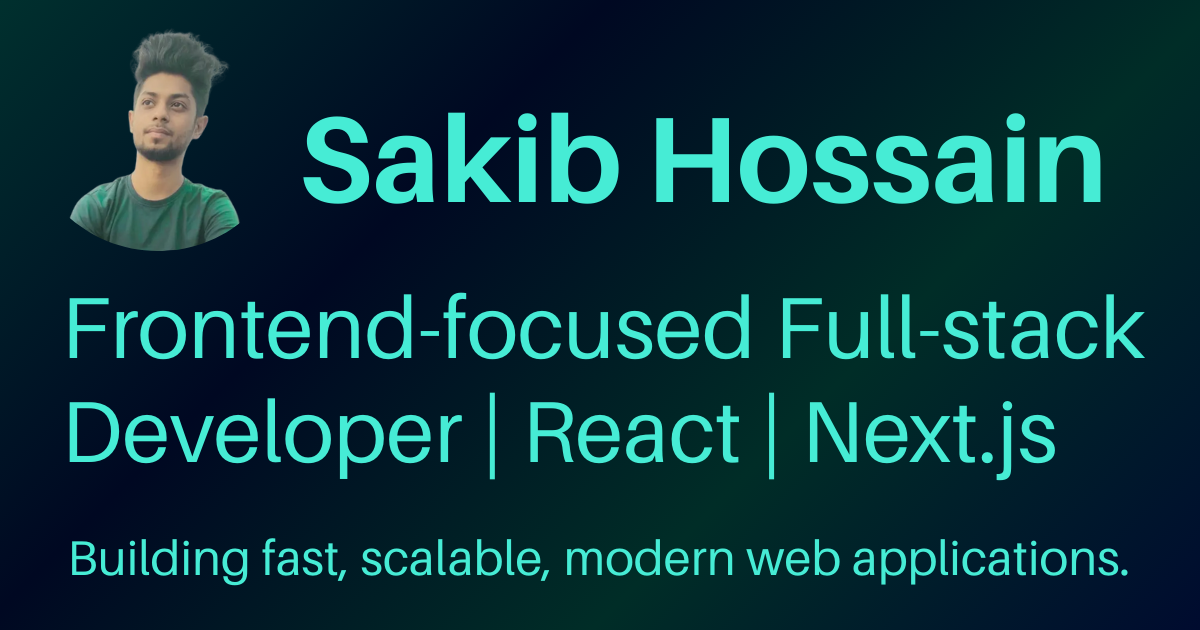
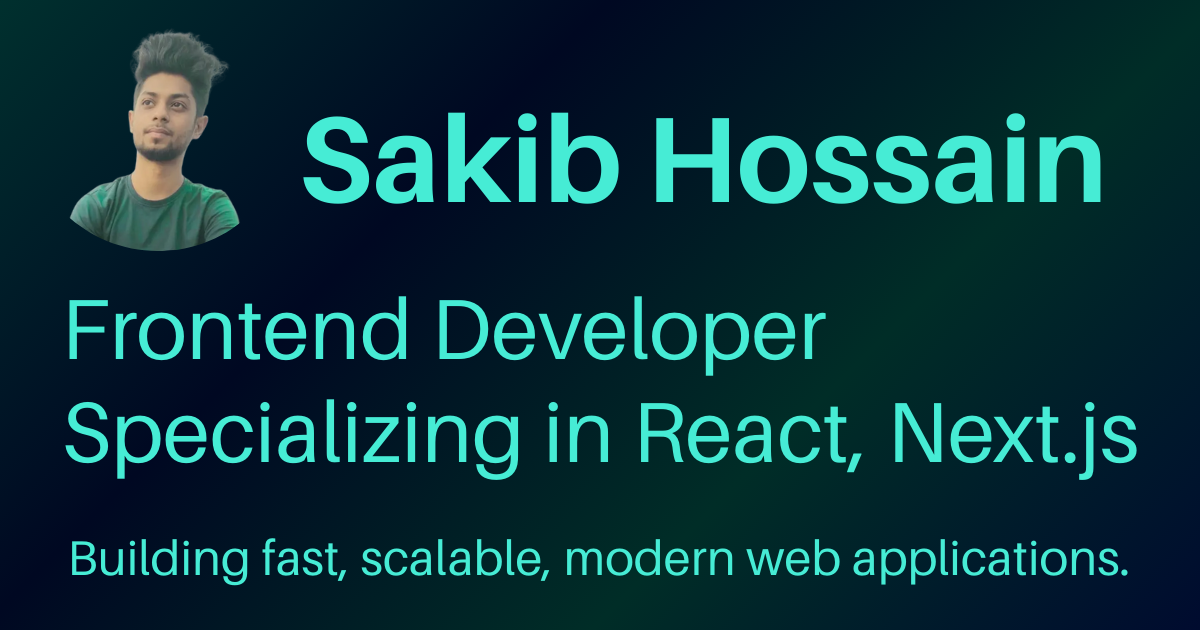
updated content: full-stack to frontend developer

Changed region(s): [[0.0308, 0.6333, 0.9558, 0.7841], [0.0617, 0.4524, 0.9558, 0.6032]]

diff --git a/src/app/components/Skills.tsx b/src/app/components/Skills.tsx
@@ -1,7 +1,12 @@
 import { BiLogoTypescript } from "react-icons/bi";
 import { IoLogoCss3, IoLogoHtml5 } from "react-icons/io";
-import { RiJavascriptFill, RiNodejsLine, RiReactjsLine } from "react-icons/ri";
-import { SiMongodb, SiNextdotjs } from "react-icons/si";
+import {
+  RiJavascriptFill,
+  RiReactjsLine,
+  RiTailwindCssFill,
+} from "react-icons/ri";
+import { SiNextdotjs } from "react-icons/si";
+import { TbBrandRedux } from "react-icons/tb";
 
 const Skills = () => {
   return (
@@ -18,7 +23,7 @@ const Skills = () => {
           >
             <IoLogoHtml5 className="size-22" />
           </a>
-          <div className="grow h-18 flex items-center bg-primary-100/10 pl-6 relative">
+          <div className="grow h-20 flex items-center bg-primary-100/10 pl-6 relative">
             <a
               href="https://developer.mozilla.org/en-US/docs/Learn_web_development/Core/Structuring_content"
               target="_blank"
@@ -28,7 +33,6 @@ const Skills = () => {
             </a>
             <span className="bg-primary-300 absolute top-0 left-0 h-full w-[85%] -z-10" />
           </div>
-          <h5 className="tracking-wide">Expert</h5>
         </div>
 
         <div className="grow flex items-center gap-10">
@@ -39,7 +43,7 @@ const Skills = () => {
           >
             <IoLogoCss3 className="size-22" />
           </a>
-          <div className="grow h-18 flex items-center bg-primary-100/10 pl-6 relative">
+          <div className="grow h-20 flex items-center bg-primary-100/10 pl-6 relative">
             <a
               href="https://developer.mozilla.org/en-US/docs/Learn_web_development/Core/Styling_basics"
               target="_blank"
@@ -49,7 +53,26 @@ const Skills = () => {
             </a>
             <span className="bg-primary-300 absolute top-0 left-0 h-full w-[93%] -z-10" />
           </div>
-          <h5 className="tracking-wide">Expert</h5>
+        </div>
+
+        <div className="grow flex items-center gap-10">
+          <a
+            href="https://tailwindcss.com"
+            target="_blank"
+            className="hover:text-primary-400 active:text-primary-500"
+          >
+            <RiTailwindCssFill className="size-22 p-1" />
+          </a>
+          <div className="grow h-20 flex items-center bg-primary-100/10 pl-6 relative">
+            <a
+              href="https://tailwindcss.com"
+              target="_blank"
+              className="text-sm font-semibold tracking-wide text-primary-950 hover:text-primary-900 active:text-primary-800"
+            >
+              Tailwind CSS
+            </a>
+            <span className="bg-primary-300 absolute top-0 left-0 h-full w-[82%] -z-10" />
+          </div>
         </div>
 
         <div className="grow flex items-center gap-10">
@@ -60,7 +83,7 @@ const Skills = () => {
           >
             <RiJavascriptFill className="size-22" />
           </a>
-          <div className="grow h-18 flex items-center bg-primary-100/10 pl-6 relative">
+          <div className="grow h-20 flex items-center bg-primary-100/10 pl-6 relative">
             <a
               href="https://developer.mozilla.org/en-US/docs/Learn_web_development/Core/Scripting"
               target="_blank"
@@ -70,28 +93,6 @@ const Skills = () => {
             </a>
             <span className="bg-primary-300 absolute top-0 left-0 h-full w-[92%] -z-10" />
           </div>
-          <h5 className="tracking-wide">Expert</h5>
-        </div>
-
-        <div className="grow flex items-center gap-10">
-          <a
-            href="https://www.typescriptlang.org"
-            target="_blank"
-            className="hover:text-primary-400 active:text-primary-500"
-          >
-            <BiLogoTypescript className="size-22" />
-          </a>
-          <div className="grow h-18 flex items-center bg-primary-100/10 pl-6 relative">
-            <a
-              href="https://www.typescriptlang.org"
-              target="_blank"
-              className="text-sm font-semibold tracking-wide text-primary-950 hover:text-primary-900 active:text-primary-800"
-            >
-              Typescript
-            </a>
-            <span className="bg-primary-300 absolute top-0 left-0 h-full w-[64%] -z-10" />
-          </div>
-          <h5>Intermediate</h5>
         </div>
       </div>
 
@@ -109,13 +110,33 @@ const Skills = () => {
       <div className="order-3 w-full md:w-[34%] flex flex-col gap-20">
         <div className="grow flex items-center gap-10">
           <a
+            href="https://www.typescriptlang.org"
+            target="_blank"
+            className="hover:text-primary-400 active:text-primary-500"
+          >
+            <BiLogoTypescript className="size-22" />
+          </a>
+          <div className="grow h-20 flex items-center bg-primary-100/10 pl-6 relative">
+            <a
+              href="https://www.typescriptlang.org"
+              target="_blank"
+              className="text-sm font-semibold tracking-wide text-primary-950 hover:text-primary-900 active:text-primary-800"
+            >
+              Typescript
+            </a>
+            <span className="bg-primary-300 absolute top-0 left-0 h-full w-[66%] -z-10" />
+          </div>
+        </div>
+
+        <div className="grow flex items-center gap-10">
+          <a
             href="https://react.dev"
             target="_blank"
             className="hover:text-primary-400 active:text-primary-500"
           >
             <RiReactjsLine className="size-22" />
           </a>
-          <div className="grow h-18 flex items-center bg-primary-100/10 pl-6 relative">
+          <div className="grow h-20 flex items-center bg-primary-100/10 pl-6 relative">
             <a
               href="https://react.dev"
               target="_blank"
@@ -125,7 +146,26 @@ const Skills = () => {
             </a>
             <span className="bg-primary-300 absolute top-0 left-0 h-full w-[92%] -z-10" />
           </div>
-          <h5 className="tracking-wide">Expert</h5>
+        </div>
+
+        <div className="grow flex items-center gap-10">
+          <a
+            href="https://redux-toolkit.js.org"
+            target="_blank"
+            className="hover:text-primary-400 active:text-primary-500"
+          >
+            <TbBrandRedux className="size-22" />
+          </a>
+          <div className="grow h-20 flex items-center bg-primary-100/10 pl-6 relative">
+            <a
+              href="https://redux-toolkit.js.org"
+              target="_blank"
+              className="text-sm font-semibold tracking-wide text-primary-950 hover:text-primary-900 active:text-primary-800"
+            >
+              Redux
+            </a>
+            <span className="bg-primary-300 absolute top-0 left-0 h-full w-[80%] -z-10" />
+          </div>
         </div>
 
         <div className="grow flex items-center gap-10">
@@ -136,7 +176,7 @@ const Skills = () => {
           >
             <SiNextdotjs className="size-22 p-2" />
           </a>
-          <div className="grow h-18 flex items-center bg-primary-100/10 pl-6 relative">
+          <div className="grow h-20 flex items-center bg-primary-100/10 pl-6 relative">
             <a
               href="https://nextjs.org"
               target="_blank"
@@ -146,58 +186,6 @@ const Skills = () => {
             </a>
             <span className="bg-primary-300 absolute top-0 left-0 h-full w-[93%] -z-10" />
           </div>
-          <h5 className="tracking-wide">Expert</h5>
-        </div>
-
-        <div className="grow flex items-center gap-10">
-          <a
-            href="https://nodejs.org"
-            target="_blank"
-            className="hover:text-primary-400 active:text-primary-500"
-          >
-            <RiNodejsLine className="size-22 p-1" />
-          </a>
-          <div className="grow h-18 flex items-center bg-primary-100/10 pl-6 relative">
-            <a
-              href="https://nodejs.org"
-              target="_blank"
-              className="text-sm font-semibold tracking-wide text-primary-950 hover:text-primary-900 active:text-primary-800"
-            >
-              Node.js
-            </a>
-            <span className="bg-primary-300 absolute top-0 left-0 h-full w-[29%] -z-10" />
-          </div>
-          <h5>Beginner</h5>
-        </div>
-
-        <div className="grow flex items-center gap-10">
-          <a
-            href="https://www.mongodb.com"
-            target="_blank"
-            className="hover:text-primary-400 active:text-primary-500"
-          >
-            <SiMongodb className="size-22" />
-          </a>
-          <div className="grow h-18 flex items-center bg-primary-100/10 pl-6 relative">
-            <h6 className="text-sm text-nowrap font-semibold md:tracking-[-1px] lg:tracking-normal">
-              <a
-                href="https://mongoosejs.com"
-                target="_blank"
-                className="text-primary-950 hover:text-primary-900 active:text-primary-800"
-              >
-                Mongoose
-              </a>{" "}
-              <a
-                href="https://www.mongodb.com"
-                target="_blank"
-                className="text-primary-950 hover:text-primary-900 active:text-primary-800"
-              >
-                (MongoDB)
-              </a>
-            </h6>
-            <span className="bg-primary-300 absolute top-0 left-0 h-full w-[38%] -z-10" />
-          </div>
-          <h5>Beginner</h5>
         </div>
       </div>
     </section>

diff --git a/src/app/components/Abbout.tsx b/src/app/components/Abbout.tsx
@@ -10,7 +10,7 @@ const Abbout = () => {
         id="about"
         className="w-full max-w-5xl mx-auto min-h-230 bg-primary-100/5 border border-t-0 border-primary-300/10 rounded-b-lg mb-24 relative"
       >
-        <div className="aspect-square border rounded-full flex items-start bg-black/30 overflow-hidden float-right mt-50 sm:mt-40 mr-10 sm:mr-30 ml-8 sm:ml-18 mb-8 sm:mb-18 shape-outside-[circle(closest-side_at_102px_141px)] sm:shape-outside-[circle(closest-side_at_89px_106px)] md:shape-outside-[circle(closest-side_at_60px_142px)] lg:shape-outside-[circle(closest-side_at_96px_106px)]">
+        <div className="aspect-square border rounded-full flex items-start bg-black/30 overflow-hidden float-right mt-50 sm:mt-40 mr-10 sm:mr-30 ml-8 sm:ml-18 mb-8 sm:mb-18 shape-outside-[circle(closest-side_at_100px_141px)] sm:shape-outside-[circle(closest-side_at_88px_101px)] md:shape-outside-[circle(closest-side_at_92px_120px)] lg:shape-outside-[circle(closest-side_at_80px_122px)]">
           <img
             src="/images/picture.webp"
             alt="Picture"
@@ -22,67 +22,28 @@ const Abbout = () => {
           <h2 className="mb-14">Sakib Hossain</h2>
           <h1 className="text-sm sm:text-[15px] tracking-wide sm:tracking-wider sm:leading-25 last-align-end mb-8">
             I’m Sakib, a
-            <b className="text-size-inherit font-semibold"> Frontend</b>
-            -focused
-            <b className="text-size-inherit font-semibold"> Full-stack </b>
+            <b className="text-size-inherit font-semibold"> Frontend </b>
             Developer with
             <b className="text-size-inherit font-semibold"> 4 years </b>of
             experience, including 2 years of
             <b className="text-size-inherit font-semibold"> job experience </b>
             as a professional
             <b className="text-size-inherit font-semibold"> Frontend </b>
-            developer. I specialize in
-            <a
-              href="https://react.dev"
-              target="_blank"
-              className="text-size-inherit font-semibold"
-            >
-              {" "}
-              React{" "}
-            </a>
-            and
-            <a
-              href="https://nextjs.org"
-              target="_blank"
-              className="text-size-inherit font-semibold"
-            >
-              {" "}
-              Next.js
-            </a>
-            , with hands-on{" "}
-            <b className="text-size-inherit font-semibold">Backend</b>{" "}
-            experience using{" "}
-            <a
-              href="https://nextjs.org"
-              target="_blank"
-              className="text-size-inherit font-semibold"
-            >
-              {" "}
-              Next.js{" "}
-            </a>
-            and
-            <a
-              href="https://www.mongodb.com"
-              target="_blank"
-              className="text-size-inherit font-semibold"
-            >
-              {" "}
-              MongoDB
-            </a>
-            (
-            <a
-              href="https://mongoosejs.com"
-              target="_blank"
-              className="text-size-inherit"
-            >
-              Mongoose
-            </a>
-            ).
+            developer. I specialize in building
+            <b className="text-size-inherit font-semibold"> performant</b> and
+            <b className="text-size-inherit font-semibold"> scalable</b> web
+            applications using
+            <b className="text-size-inherit font-semibold"> React</b>,
+            <b className="text-size-inherit font-semibold"> Next.js</b>,
+            <b className="text-size-inherit font-semibold"> TypeScript</b>, and
+            <b className="text-size-inherit font-semibold"> Tailwind CSS</b>.
           </h1>
           <p className="text-sm sm:text-[15px] tracking-wide last-align-end">
-            I enjoy building projects from scratch—writing clean, scalable code,
-            and focusing on performance, security, accessibility, and a strong
-            architectural foundation.
+            I focus on writing clean, maintainable code with attention to
+            performance, accessibility, and UI/UX. I'm experienced in building
+            web applications from scratch — including complex state management,
+            responsive design, and seamless integration with APIs and modern
+            backend services.
           </p>
         </div>
       </section>

diff --git a/src/app/layout.tsx b/src/app/layout.tsx
@@ -19,15 +19,13 @@ export const viewport: Viewport = {
 
 export const metadata: Metadata = {
   metadataBase: new URL("https://ssakibhossain10.vercel.app"),
-  title:
-    "Sakib Hossain | Frontend-focused Full-stack Developer | React, Next.js Expert",
+  title: "Sakib Hossain | Frontend Developer | React, Next.js Expert",
   description:
-    "Hi, I'm Sakib Hossain — a Frontend-focused Full-stack Developer passionate about building fast, scalable, and high-performance web applications. Specializing in React, Next.js, and modern web technologies. Let's build something great together.",
+    "Hi, I'm Sakib Hossain — a Frontend Developer passionate about building fast, scalable, and high-performance web applications. Specializing in React, Next.js, and modern web technologies. Let's build something great together.",
   openGraph: {
-    title:
-      "Sakib Hossain | Frontend-focused Full-stack Developer | React, Next.js Expert",
+    title: "Sakib Hossain | Frontend Developer | React, Next.js Expert",
     description:
-      "Hi, I'm Sakib Hossain — a Frontend-focused Full-stack Developer passionate about building fast, scalable, and high-performance web applications. Specializing in React, Next.js, and modern web technologies. Let's build something great together.",
+      "Hi, I'm Sakib Hossain — a Frontend Developer passionate about building fast, scalable, and high-performance web applications. Specializing in React, Next.js, and modern web technologies. Let's build something great together.",
     url: "https://ssakibhossain10.vercel.app",
     siteName: "Sakib Hossain Portfolio",
     images: {
@@ -50,10 +48,9 @@ export const metadata: Metadata = {
   },
   twitter: {
     card: "summary_large_image",
-    title:
-      "Sakib Hossain | Frontend-focused Full-stack Developer | React, Next.js Expert",
+    title: "Sakib Hossain | Frontend Developer | React, Next.js Expert",
     description:
-      "Portfolio of Sakib Hossain, a Frontend-focused Full-stack Developer specializing in React, Next.js, and scalable web apps. Explore projects and experience.",
+      "Portfolio of Sakib Hossain, a Frontend Developer passionate about building fast, scalable, and high-performance web applications. Specializing in React, Next.js, and modern web technologies. Let's build something great together.",
     images: {
       url: "/images/preveiw-image.png",
       width: 1200,

diff --git a/src/app/components/Footer.tsx b/src/app/components/Footer.tsx
@@ -10,8 +10,8 @@ import { MdOutlineEmail } from "react-icons/md";
 const Footer = () => {
   return (
     <footer className="shrink-0 bg-primary-100/5 h-40 border-t border-primary-300/10">
-      <div className="h-full flex justify-between items-center px-8 max-w-[1052px] mx-auto">
-        <div className="flex sm:gap-4 overflow-x-auto scrollbar-hidden">
+      <div className="h-full flex justify-between items-center px-8 max-w-[1052px] mx-auto overflow-x-auto scrollbar-hidden">
+        <div className="grow max-w-[230px] flex justify-between">
           <a
             href="https://github.com/SSakibHossain10"
             target="_blank"
@@ -55,7 +55,7 @@ const Footer = () => {
           </a>
         </div>
 
-        <h6 className="text-2xs sm:text-xs tracking-tighter sm:tracking-normal px-8">
+        <h6 className="shrink-0 text-2xs sm:text-xs tracking-tighter sm:tracking-normal px-8">
           Copyright © 2025 - All rights reserved
         </h6>
       </div>
